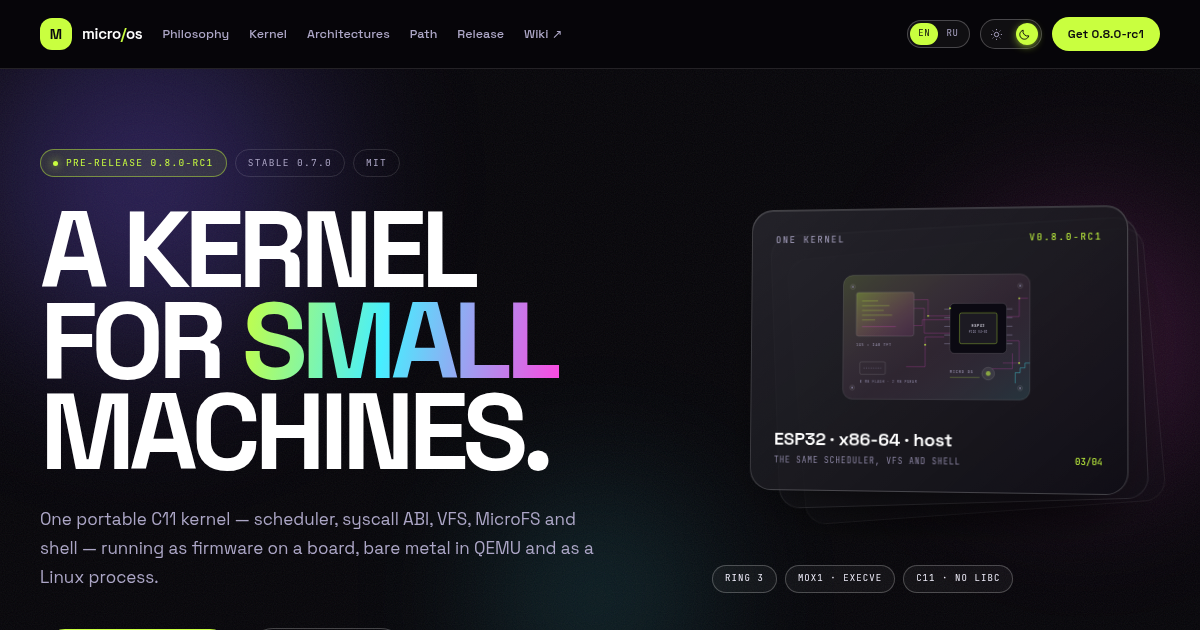
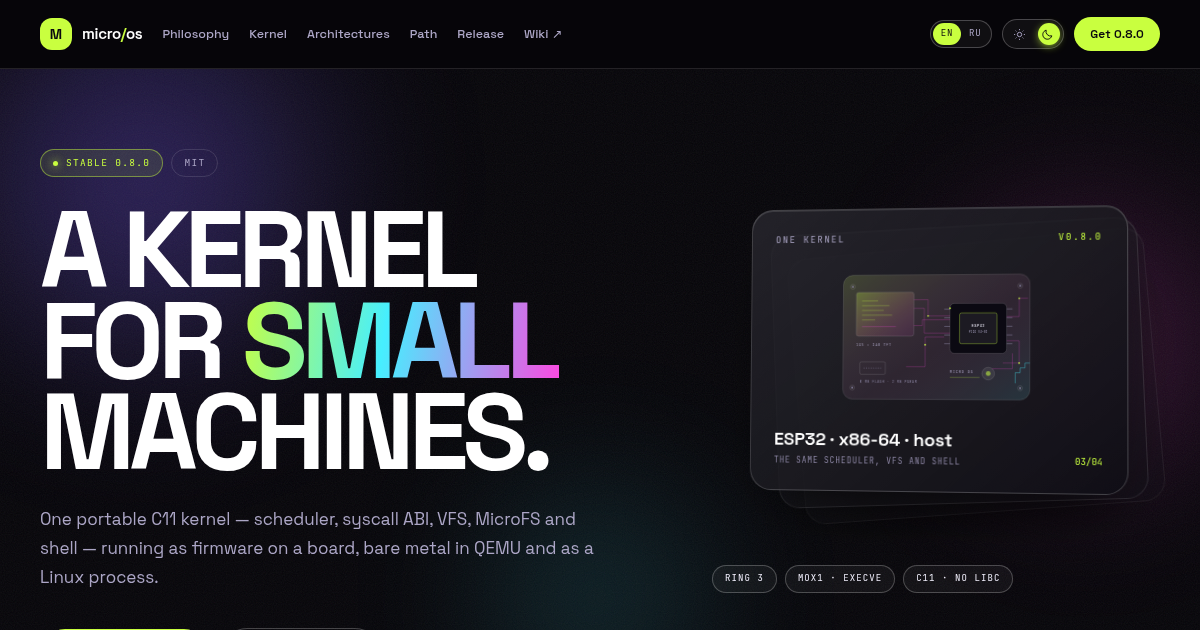
site: publish v0.8.0 and move SMP past 1.0
The 0.8 candidate becomes the stable release: the hero and release
card lose pre-release and last-stable badges, the assets use the final
names and the console prints 0.8.0. What's next is 0.8.0 -> 0.9.0-rc1
(MicroFS fsck -y, task limits, frozen ABI/MOX1, reproducible image,
docs, ESP32 deep sleep/IR/sound) -> 1.0.0.

SMP is no longer part of 1.0: the timeline, the 1.0 card and the
many-cores feature now put the second core after 1.0, next to the
progs partition and mmap on the ESP32.

diff --git a/src/i18n.tsx b/src/i18n.tsx
@@ -16,7 +16,7 @@ const en = {
   meta: {
     title: "Micro OS — a kernel for small machines",
     description:
-      "A portable C11 kernel for small machines: scheduler, syscall ABI, VFS, MicroFS and a shell on ESP32, bare metal x86-64 in QEMU and as a Linux process. Latest: v0.8.0-rc1.",
+      "A portable C11 kernel for small machines: scheduler, syscall ABI, VFS, MicroFS and a shell on ESP32, bare metal x86-64 in QEMU and as a Linux process. Latest: v0.8.0.",
     ogTitle: "Micro OS — a kernel for small machines",
     ogDescription:
       "One portable C11 kernel. The same scheduler, VFS and shell on an ESP32 board, on bare-metal x86-64 and in a Linux process.",
@@ -41,7 +41,6 @@ const en = {
     stackLabel: "Three ports of one kernel: ESP32, x86-64 and host",
   },
   hero: {
-    statusPre: "pre-release",
     statusStable: "stable",
     statusLicense: "MIT",
     titleA: "A kernel",
@@ -252,13 +251,13 @@ const en = {
         version: "0.8",
         title: "Programs on disk",
         body: "programs from the disk, /proc and /etc on x86-64, fsck fat -y, ext2 read-only, NX/W^X and Xtensa .mox on the ESP32.",
-        tag: "pre-release",
+        tag: "stable",
         planned: false,
       },
       {
         version: "1.0",
         title: "The gate",
-        body: "Plan: a higher half, many cores with KERNEL_SMP, a safe update, the progs partition and mmap on the ESP32.",
+        body: "Plan: a higher half, a safe update with a signature and four weeks of soak. After 1.0: SMP, the progs partition and mmap on the ESP32.",
         tag: "plan",
         planned: true,
       },
@@ -322,7 +321,7 @@ const en = {
       {
         index: "08",
         title: "Many cores",
-        body: "A run queue per core, the allocator, VFS and console safe under two cores, x86-64 AP bring-up, KERNEL_SMP. Planned, not claimed: the design is ADR 0012.",
+        body: "After 1.0: a run queue per core, the allocator, VFS and console safe under two cores, x86-64 AP bring-up, KERNEL_SMP. Planned, not claimed: the design is ADR 0012.",
         tag: "next",
         planned: true,
       },
@@ -345,22 +344,22 @@ const en = {
     cards: [
       {
         phase: "now",
-        title: "v0.8.0-rc1",
-        body: "The release candidate: programs load from disk, fsck -y repairs FAT, ext2 is read-only, NX/W^X is on, and the ESP32 runs Xtensa .mox. Last stable: 0.7.0.",
-        status: "pre-release",
+        title: "v0.8.0",
+        body: "Stable: programs load from disk, fsck fat -y repairs FAT, ext2 is read-only, NX/W^X is on, and the ESP32 runs Xtensa .mox.",
+        status: "stable",
         current: true,
       },
       {
         phase: "next",
-        title: "0.8.0 final",
-        body: "Fixes found by the release candidate, then the final of 0.8 if the checks agree. No new promises, no dates.",
+        title: "0.9.0-rc1",
+        body: "The next candidate: fsck -y for MicroFS, task limits, a frozen ABI and MOX1, a reproducible image and coverage, the docs, and deep sleep, IR and sound on the ESP32. No dates.",
         status: "plan",
         current: false,
       },
       {
         phase: "1.0",
-        title: "The 1.0 gate",
-        body: "A higher half, many cores with KERNEL_SMP, a safe update, the progs partition and mmap on the ESP32. Planned, no dates.",
+        title: "1.0.0",
+        body: "A higher half, a safe update with a signature, and four weeks of soak on the board. After 1.0: SMP (the second core), the progs partition and mmap on the ESP32. Planned, no dates.",
         status: "plan",
         current: false,
       },
@@ -378,8 +377,7 @@ const en = {
   release: {
     kicker: "08 — the release",
     date: "21 Nov 2026",
-    pre: "pre-release",
-    lead: "The first candidate of 0.8. One image for the board, one bundle for QEMU — the kernel is the same in both.",
+    lead: "The stable release of 0.8. One image for the board, one bundle for QEMU — the kernel is the same in both.",
     notes: [
       "Programs on x86-64 load from disk: /bin are files of the MicroFS image, not blobs in the kernel. tree / shows bin/, etc/, proc/ and dev/.",
       "fsck fat -y repairs lost clusters, loops, cross-links, clusters outside the volume, broken long names and a size that disagrees with its chain. ext2 reads read-only.",
@@ -389,15 +387,14 @@ const en = {
     download: "Download .bin",
     github: "GitHub release",
     assets: [
-      { name: "MicroOS-0.8.0-rc1.bin", note: "the board, one image at 0x0", size: "990 KiB" },
-      { name: "MicroOS-x86_64-0.8.0-rc1.tar.gz", note: "the kernel and loader for QEMU", size: "92 KiB" },
+      { name: "MicroOS-0.8.0.bin", note: "the board, one image at 0x0", size: "990 KiB" },
+      { name: "MicroOS-x86_64-0.8.0.tar.gz", note: "the kernel and loader for QEMU", size: "92 KiB" },
       { name: "micro_os.bin", note: "the application image alone", size: "926 KiB" },
       { name: "flash.sh", note: "writes the image; NVS and MicroFS stay", size: "2.3 KiB" },
-      { name: "checksums.txt", note: "SHA-256 of every binary", size: "334 B" },
+      { name: "checksums.txt", note: "SHA-256 of every binary", size: "330 B" },
     ],
     flash:
       "flash.sh writes the image at 0x0; NVS and MicroFS stay. The release keeps no executable bit — chmod +x first.",
-    lastStable: "last stable",
     license: "license",
   },
   footer: {
@@ -424,7 +421,7 @@ const ru: Dictionary = {
   meta: {
     title: "Micro OS — ядро для малых машин",
     description:
-      "Портируемое ядро на C11 для малых машин: планировщик, ABI системных вызовов, VFS, MicroFS и shell на ESP32, на голом x86-64 в QEMU и в процессе Linux. Актуальное: v0.8.0-rc1.",
+      "Портируемое ядро на C11 для малых машин: планировщик, ABI системных вызовов, VFS, MicroFS и shell на ESP32, на голом x86-64 в QEMU и в процессе Linux. Актуальное: v0.8.0.",
     ogTitle: "Micro OS — ядро для малых машин",
     ogDescription:
       "Одно портируемое ядро на C11. Тот же планировщик, VFS и shell на плате ESP32, на голом x86-64 и в процессе Linux.",
@@ -449,7 +446,6 @@ const ru: Dictionary = {
     stackLabel: "Три порта одного ядра: ESP32, x86-64 и host",
   },
   hero: {
-    statusPre: "пре-релиз",
     statusStable: "стабильный",
     statusLicense: "MIT",
     titleA: "Ядро для",
@@ -660,13 +656,13 @@ const ru: Dictionary = {
         version: "0.8",
         title: "Программы на диске",
         body: "программы с диска, /proc и /etc на x86-64, fsck fat -y, ext2 только на чтение, NX/W^X и Xtensa .mox на ESP32.",
-        tag: "пре-релиз",
+        tag: "стабильный",
         planned: false,
       },
       {
         version: "1.0",
         title: "Ворота",
-        body: "План: higher half, много ядер с KERNEL_SMP, безопасное обновление, раздел progs и mmap на ESP32.",
+        body: "План: higher half, безопасное обновление с подписью и четыре недели обкатки. После 1.0: SMP, раздел progs и mmap на ESP32.",
         tag: "план",
         planned: true,
       },
@@ -730,7 +726,7 @@ const ru: Dictionary = {
       {
         index: "08",
         title: "Много ядер",
-        body: "Очередь на каждое ядро, аллокатор, VFS и консоль, безопасные под двумя ядрами, AP bring-up на x86-64, KERNEL_SMP. Запланировано, а не заявлено: дизайн в ADR 0012.",
+        body: "После 1.0: очередь на каждое ядро, аллокатор, VFS и консоль, безопасные под двумя ядрами, AP bring-up на x86-64, KERNEL_SMP. Запланировано, а не заявлено: дизайн в ADR 0012.",
         tag: "дальше",
         planned: true,
       },
@@ -753,22 +749,22 @@ const ru: Dictionary = {
     cards: [
       {
         phase: "сейчас",
-        title: "v0.8.0-rc1",
-        body: "Кандидат релиза: программы грузятся с диска, fsck -y чинит FAT, ext2 только на чтение, NX/W^X включён, ESP32 исполняет Xtensa .mox. Последний стабильный — 0.7.0.",
-        status: "пре-релиз",
+        title: "v0.8.0",
+        body: "Стабильный релиз: программы грузятся с диска, fsck fat -y чинит FAT, ext2 только на чтение, NX/W^X включён, ESP32 исполняет Xtensa .mox.",
+        status: "стабильный",
         current: true,
       },
       {
         phase: "дальше",
-        title: "0.8.0 final",
-        body: "Исправления, которые найдёт кандидат, затем финал 0.8, если проверки согласятся. Без новых обещаний и без дат.",
+        title: "0.9.0-rc1",
+        body: "Следующий кандидат: fsck -y для MicroFS, лимиты задач, заморозка ABI и MOX1, воспроизводимый образ и покрытие, документация, а также deep sleep, ИК и звук на ESP32. Без дат.",
         status: "план",
         current: false,
       },
       {
         phase: "1.0",
-        title: "Ворота 1.0",
-        body: "Higher half, много ядер с KERNEL_SMP, безопасное обновление, раздел progs и mmap на ESP32. План, без дат.",
+        title: "1.0.0",
+        body: "Higher half, безопасное обновление с подписью и четыре недели обкатки на плате. После 1.0: SMP (второе ядро), раздел progs и mmap на ESP32. План, без дат.",
         status: "план",
         current: false,
       },
@@ -786,8 +782,7 @@ const ru: Dictionary = {
   release: {
     kicker: "08 — релиз",
     date: "21 ноя 2026",
-    pre: "пре-релиз",
-    lead: "Первый кандидат 0.8. Один образ для платы, один архив для QEMU — ядро в них одно и то же.",
+    lead: "Стабильный релиз 0.8. Один образ для платы, один архив для QEMU — ядро в них одно и то же.",
     notes: [
       "На x86-64 программы грузятся с диска: /bin — файлы образа MicroFS, а не блобы в ядре. tree / показывает bin/, etc/, proc/ и dev/.",
       "fsck fat -y чинит потерянные кластеры, циклы, cross-link, кластеры вне тома, битые длинные имена и размер, не совпадающий с цепочкой. ext2 читается только на чтение.",
@@ -797,15 +792,14 @@ const ru: Dictionary = {
     download: "Скачать .bin",
     github: "Релиз на GitHub",
     assets: [
-      { name: "MicroOS-0.8.0-rc1.bin", note: "плата, один образ по адресу 0x0", size: "990 КиБ" },
-      { name: "MicroOS-x86_64-0.8.0-rc1.tar.gz", note: "ядро и загрузчик для QEMU", size: "92 КиБ" },
+      { name: "MicroOS-0.8.0.bin", note: "плата, один образ по адресу 0x0", size: "990 КиБ" },
+      { name: "MicroOS-x86_64-0.8.0.tar.gz", note: "ядро и загрузчик для QEMU", size: "92 КиБ" },
       { name: "micro_os.bin", note: "образ приложения отдельно", size: "926 КиБ" },
       { name: "flash.sh", note: "пишет образ; NVS и MicroFS остаются", size: "2.3 КиБ" },
-      { name: "checksums.txt", note: "SHA-256 каждого бинарника", size: "334 Б" },
+      { name: "checksums.txt", note: "SHA-256 каждого бинарника", size: "330 Б" },
     ],
     flash:
       "flash.sh пишет образ по адресу 0x0; NVS и MicroFS остаются. В релизе нет бита исполнения — сначала chmod +x.",
-    lastStable: "последний стабильный релиз",
     license: "лицензия",
   },
   footer: {

diff --git a/src/pages/KineticPage.tsx b/src/pages/KineticPage.tsx
@@ -15,7 +15,6 @@ import {
   WIKI_DEV_URL,
   WIKI_URL,
   kernelContract,
-  stableVersion,
   version,
 } from "../config";
 import { useLocale, type Locale } from "../i18n";
@@ -182,10 +181,7 @@ export default function KineticPage() {
                 className="flex flex-wrap items-center gap-2"
               >
                 <span className="inline-flex items-center gap-2 rounded-full border border-[color-mix(in_srgb,var(--accent)_45%,transparent)] bg-[color-mix(in_srgb,var(--accent)_10%,transparent)] px-2.5 py-1 font-mono text-[8px] uppercase tracking-[0.12em] text-[var(--accent)] sm:px-3 sm:py-1.5 sm:text-[9.5px] sm:tracking-[0.14em]">
-                  <span className="term-dot" /> {t.hero.statusPre} {version}
-                </span>
-                <span className="rounded-full border border-[var(--line)] px-2.5 py-1 font-mono text-[8px] uppercase tracking-[0.12em] text-[var(--muted)] sm:px-3 sm:py-1.5 sm:text-[9.5px] sm:tracking-[0.14em]">
-                  {t.hero.statusStable} {stableVersion}
+                  <span className="term-dot" /> {t.hero.statusStable} {version}
                 </span>
                 <span className="rounded-full border border-[var(--line)] px-2.5 py-1 font-mono text-[8px] uppercase tracking-[0.12em] text-[var(--muted)] sm:px-3 sm:py-1.5 sm:text-[9.5px] sm:tracking-[0.14em]">
                   {t.hero.statusLicense}
@@ -782,10 +778,7 @@ export default function KineticPage() {
                   <SectionKicker>{t.release.kicker}</SectionKicker>
                   <div className="flex items-center gap-2">
                     <span className="inline-flex items-center gap-2 rounded-full border border-[color-mix(in_srgb,var(--accent)_40%,transparent)] px-3 py-1.5 font-mono text-[8.5px] uppercase tracking-[0.12em] text-[var(--accent)]">
-                      <span className="term-dot" /> {t.release.pre}
-                    </span>
-                    <span className="rounded-full border border-[var(--line)] px-3 py-1.5 font-mono text-[8.5px] uppercase tracking-[0.12em] text-[var(--muted)]">
-                      {t.release.lastStable}: v{stableVersion}
+                      <span className="term-dot" /> {t.hero.statusStable}
                     </span>
                     <span className="rounded-full border border-[var(--line)] px-3 py-1.5 font-mono text-[8.5px] uppercase tracking-[0.12em] text-[var(--muted)]">
                       {t.release.date}
@@ -872,7 +865,7 @@ export default function KineticPage() {
                       {t.release.flash}
                     </p>
                     <p className="mt-2 font-mono text-[9px] tracking-[0.03em] text-[var(--faint)]">
-                      {t.release.lastStable}: v{stableVersion} · {t.release.license}: MIT ·{" "}
+                      {t.release.license}: MIT ·{" "}
                       {t.footer.contract} {kernelContract} · {t.release.date}
                     </p>
                   </div>

diff --git a/src/config.ts b/src/config.ts
@@ -22,14 +22,14 @@ export const RELEASES_URL = `${REPO_URL}/releases`;
 export const DOCS_URL = `${REPO_URL}/tree/mainline/docs`;
 export const LICENSE_URL = `${REPO_URL}/blob/mainline/LICENSE`;
 
-export const RELEASE_TAG = "v0.8.0-rc1";
+export const RELEASE_TAG = "v0.8.0";
 export const RELEASE_URL = `${REPO_URL}/releases/tag/${RELEASE_TAG}`;
-export const DOWNLOAD_URL = `${REPO_URL}/releases/download/${RELEASE_TAG}/MicroOS-0.8.0-rc1.bin`;
-export const X86_URL = `${REPO_URL}/releases/download/${RELEASE_TAG}/MicroOS-x86_64-0.8.0-rc1.tar.gz`;
+export const DOWNLOAD_URL = `${REPO_URL}/releases/download/${RELEASE_TAG}/MicroOS-0.8.0.bin`;
+export const X86_URL = `${REPO_URL}/releases/download/${RELEASE_TAG}/MicroOS-x86_64-0.8.0.tar.gz`;
 
 export const OG_IMAGE_URL = `${SITE_URL}og.png`;
 
-export const version = "0.8.0-rc1";
-export const stableVersion = "0.7.0";
+export const version = "0.8.0";
+export const stableVersion = "0.8.0";
 export const releaseDate = "21 Nov 2026";
 export const kernelContract = "1.8";

diff --git a/index.html b/index.html
@@ -6,7 +6,7 @@
     <meta name="color-scheme" content="dark light" />
     <meta
       name="description"
-      content="A portable C11 kernel for small machines: scheduler, syscall ABI, VFS, MicroFS and a shell on ESP32, bare metal x86-64 in QEMU and as a Linux process. Latest: v0.8.0-rc1."
+      content="A portable C11 kernel for small machines: scheduler, syscall ABI, VFS, MicroFS and a shell on ESP32, bare metal x86-64 in QEMU and as a Linux process. Latest: v0.8.0."
     />
     <meta name="theme-color" content="#060509" />
     <meta name="robots" content="index, follow" />

diff --git a/src/components/ConsoleDemo.tsx b/src/components/ConsoleDemo.tsx
@@ -3,7 +3,7 @@ import { useEffect, useRef, useState } from "react";
 
 const LINES = [
   "microos> uname",
-  "MicroOS 0.8.0-rc1 x86_64 (build ...)",
+  "MicroOS 0.8.0 x86_64 (build ...)",
   "microos> exec hello",
   "PROGRAM: hello from /bin",
   "PROGRAM: cpl 3",

diff --git a/README.md b/README.md
@@ -46,7 +46,7 @@ The theme is separate: every page has a light/dark toggle, saved under
 `microos-theme`, starting from `prefers-color-scheme`. Both choices are applied
 before the first paint by the inline script in `index.html`.
 
-Facts come from the `v0.8.0-rc1` tree and the published release. “Next” and
+Facts come from the `v0.8.0` tree and the published release. “Next” and
 “plan” are marked as such; there are no invented dates.
 
 ## Addresses
